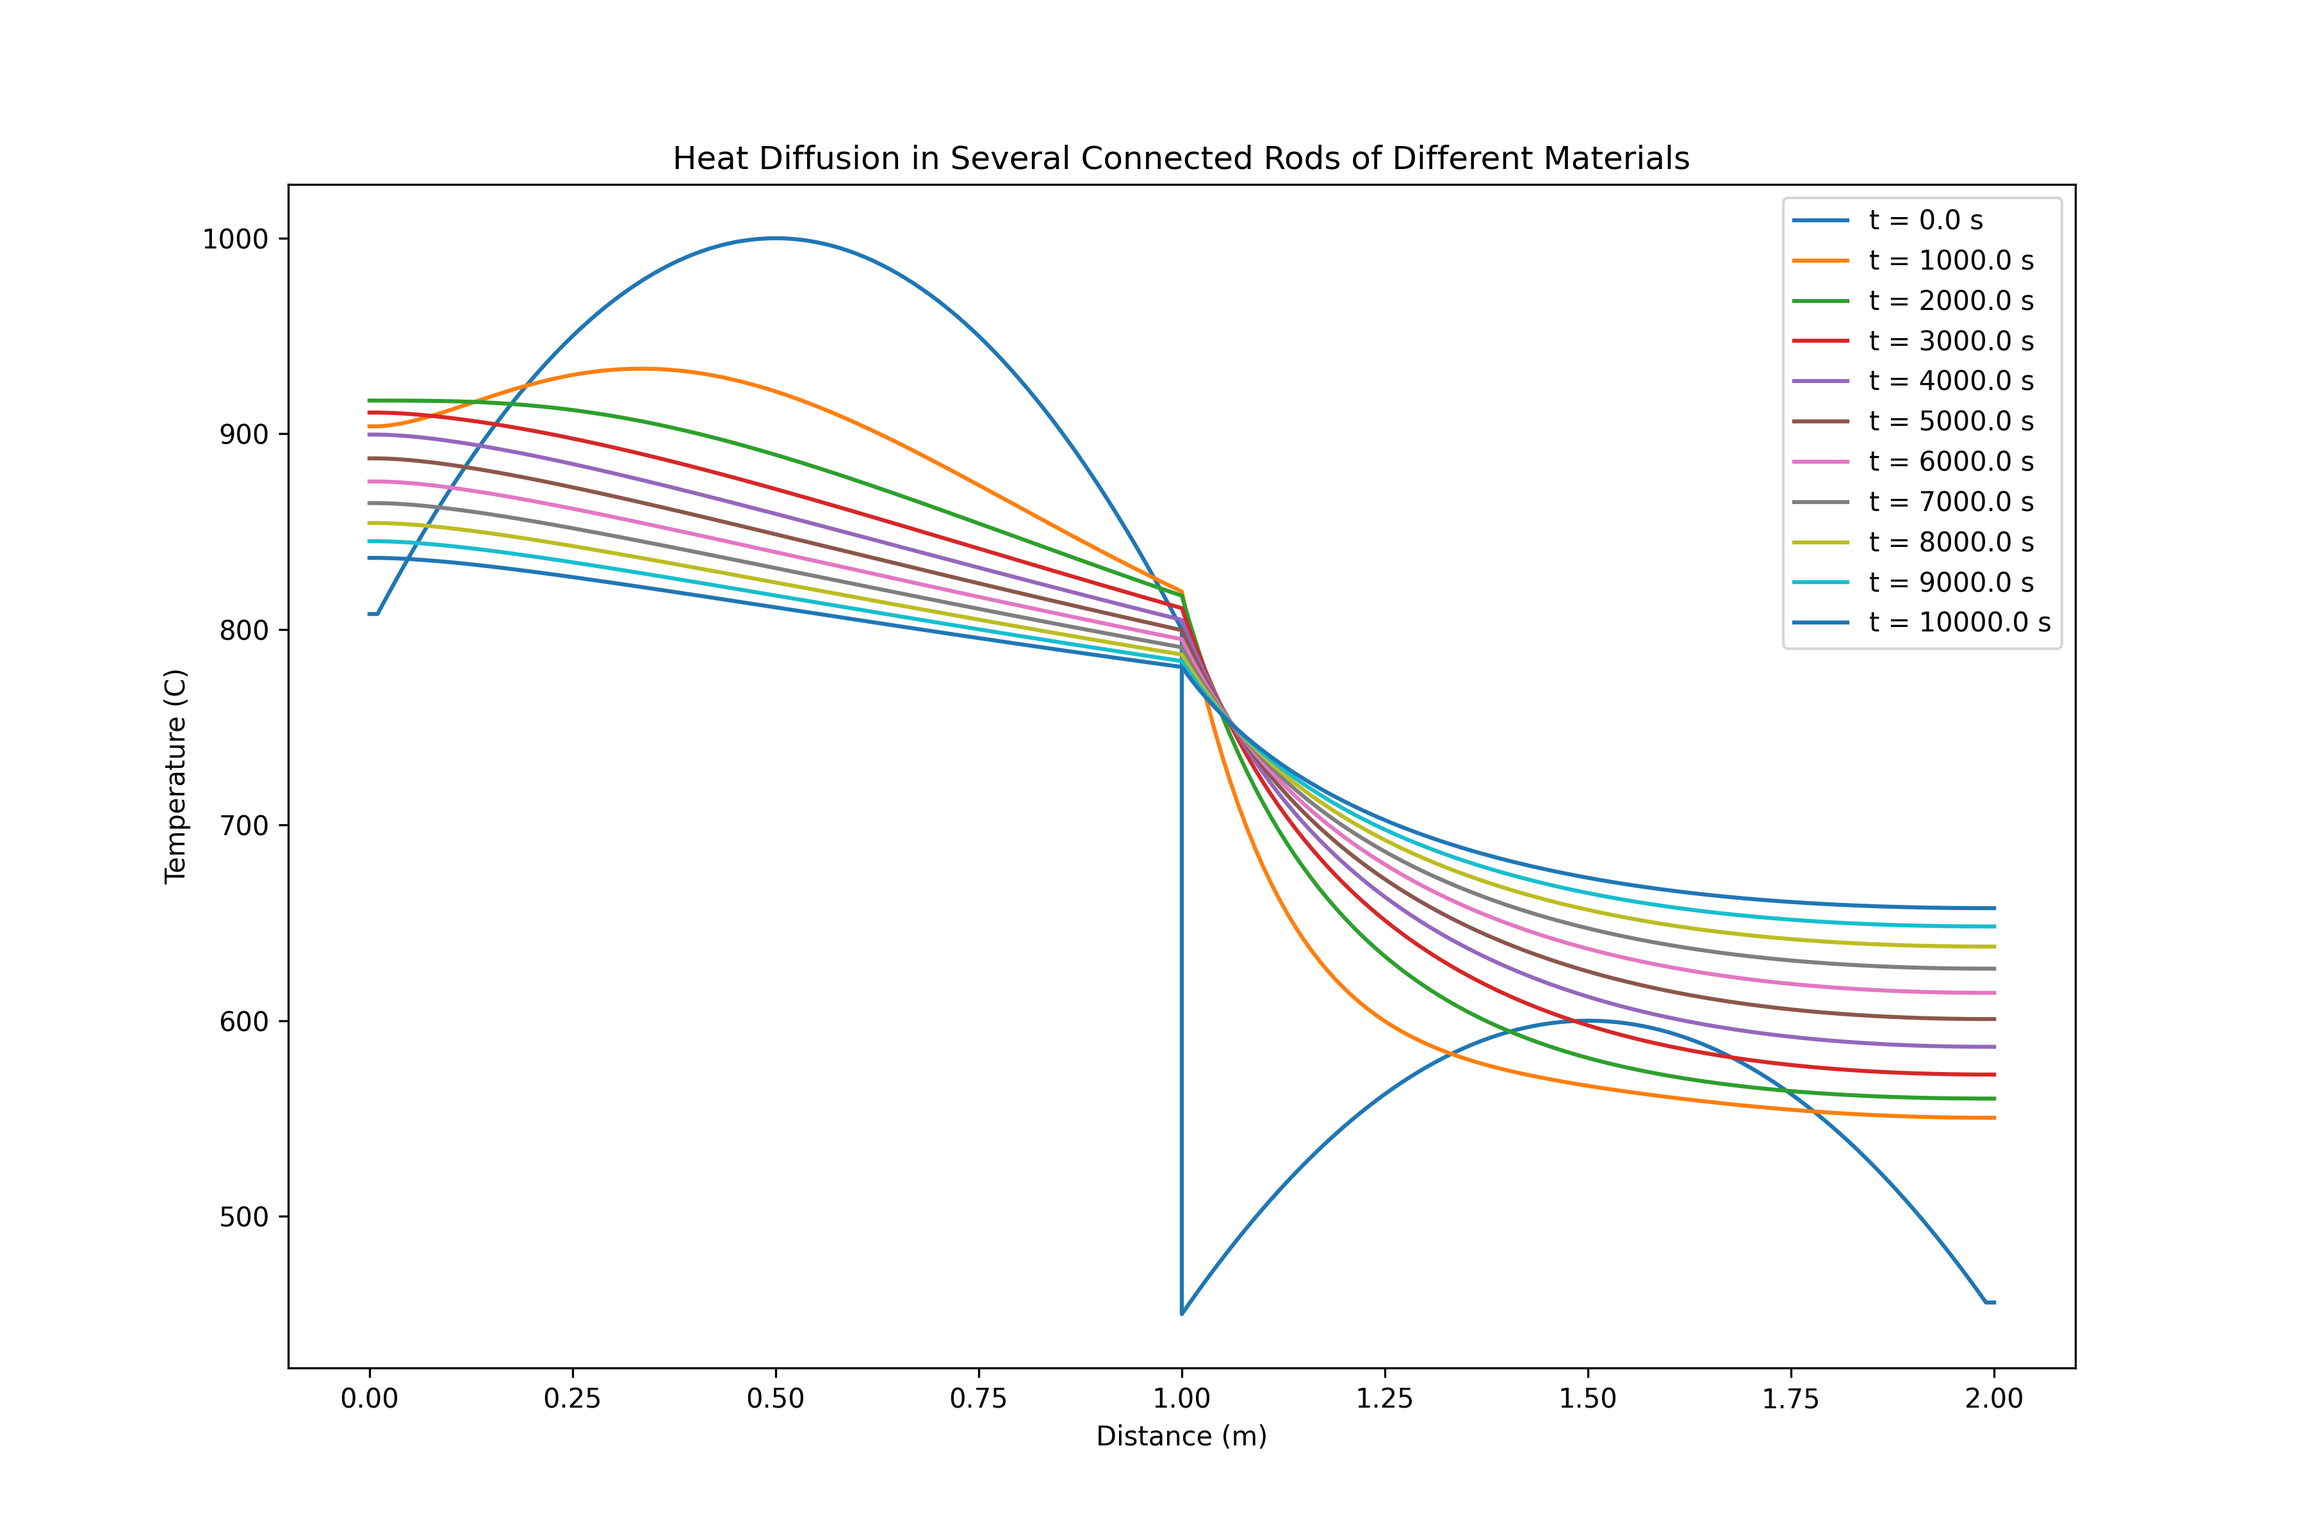
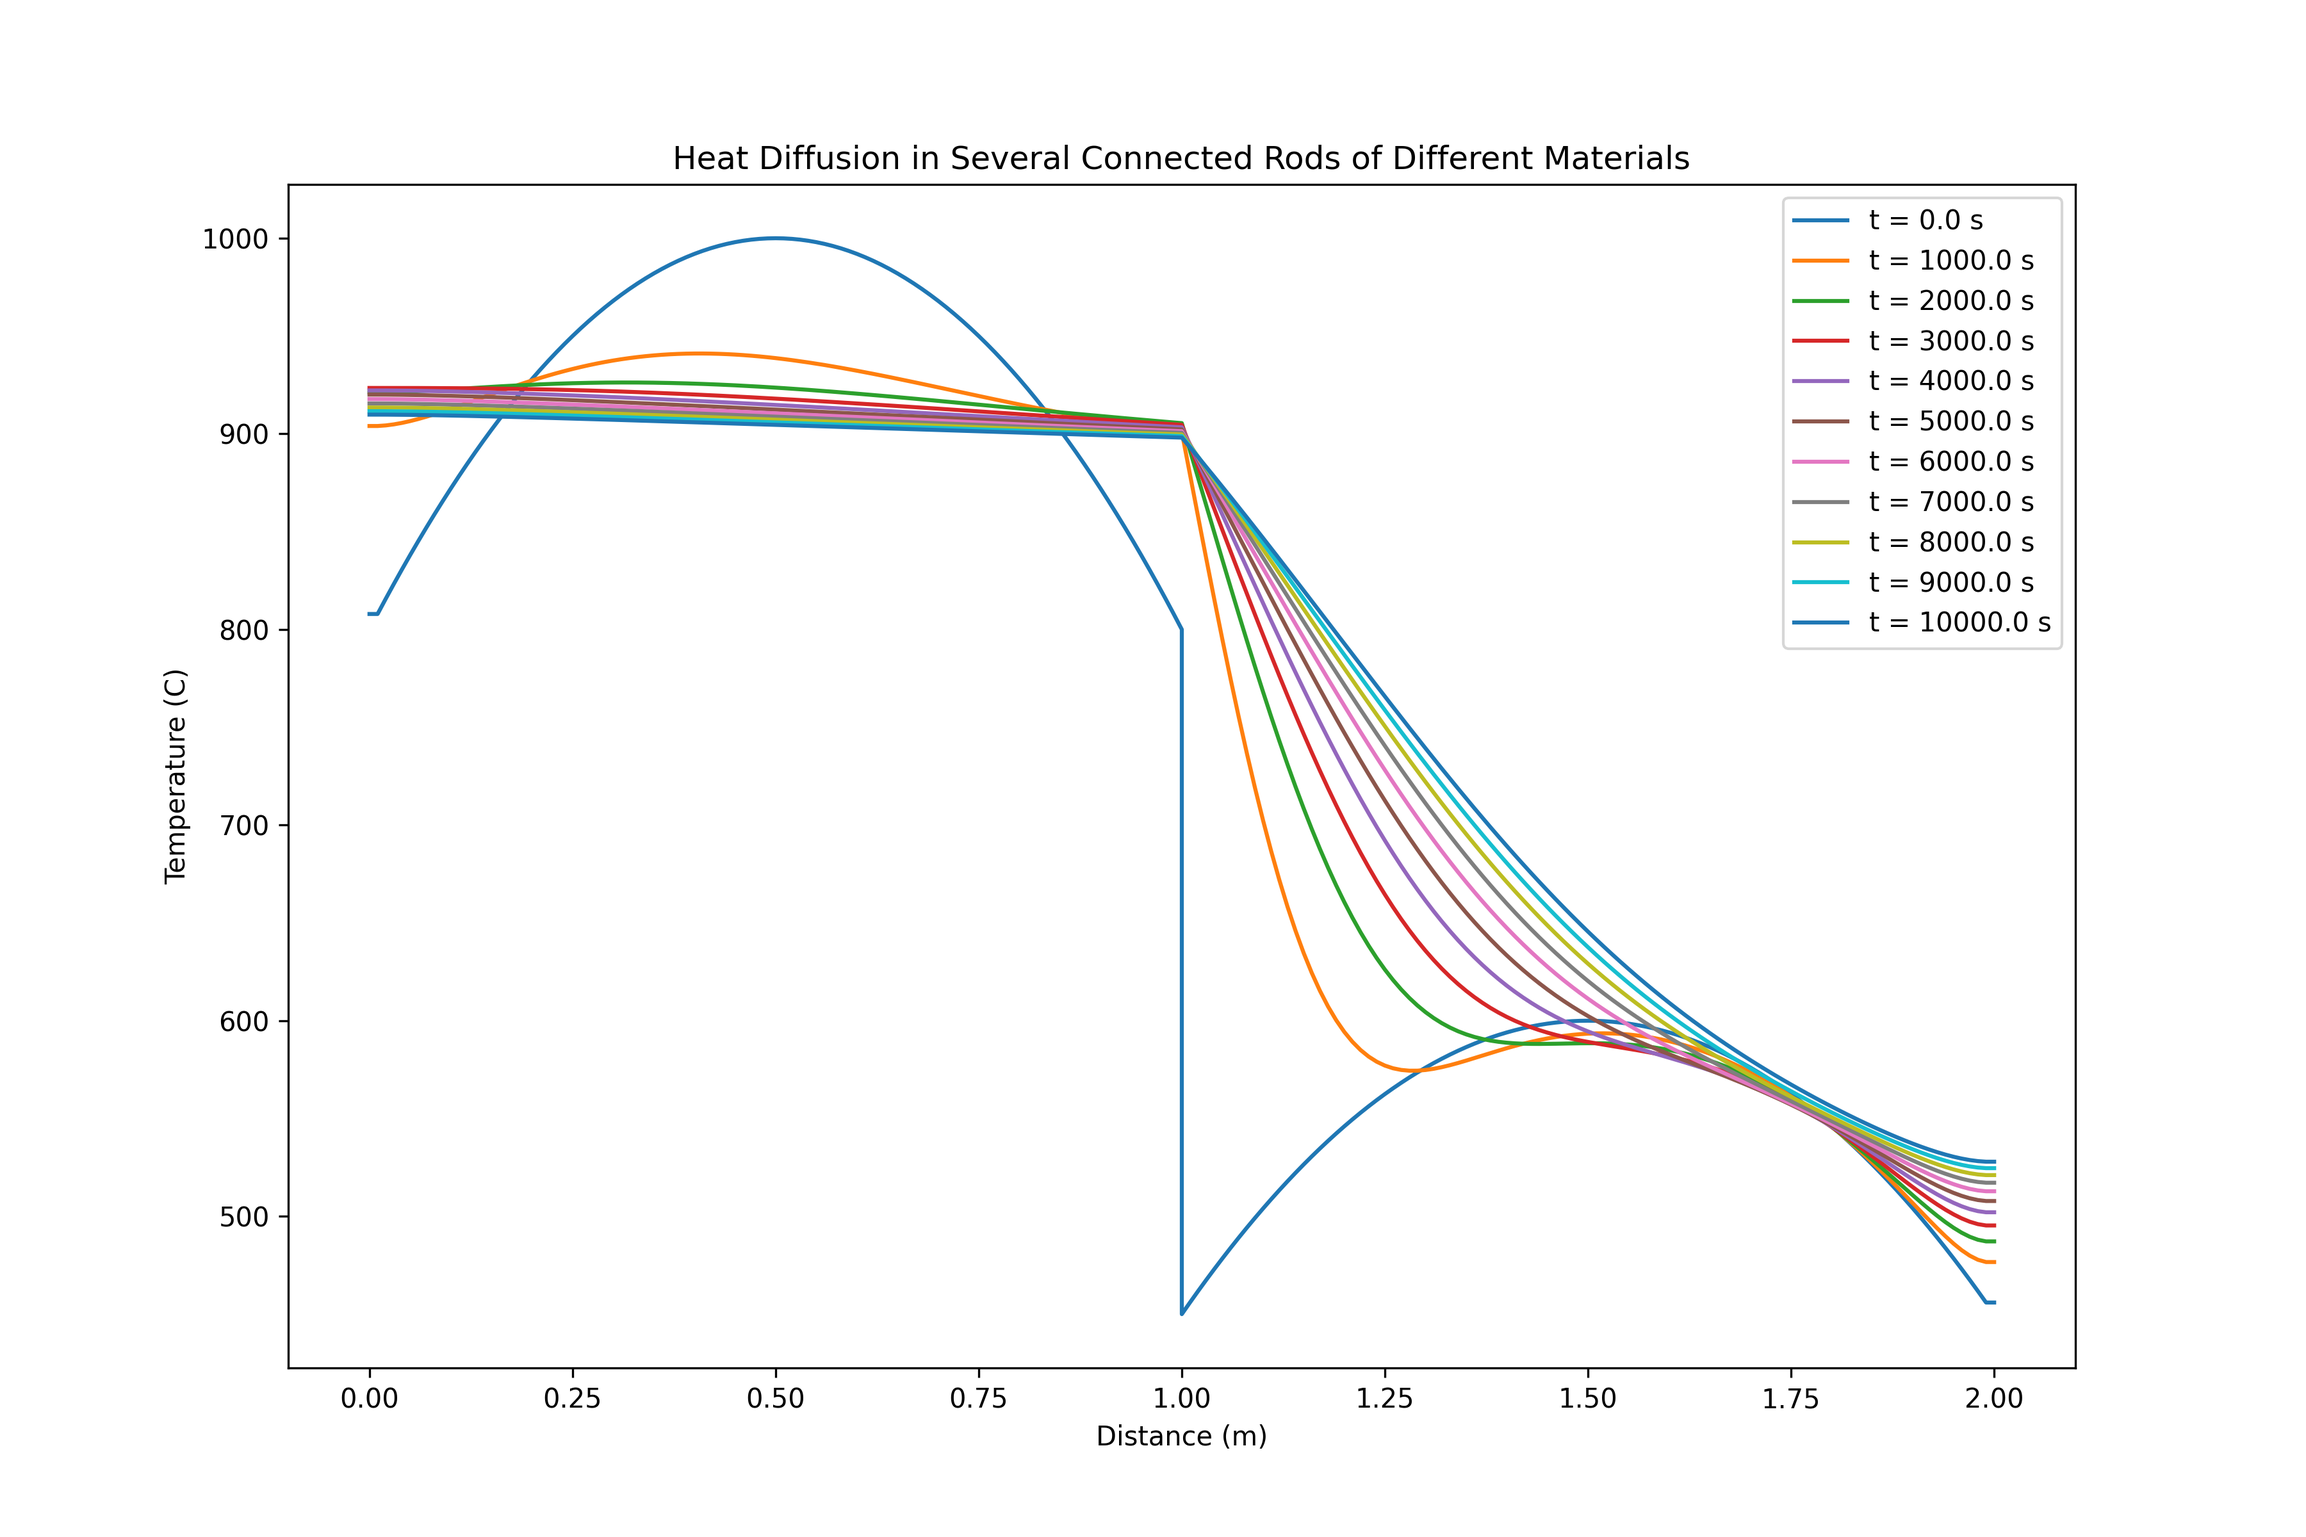
Added variable diffusivity for grain problem

Changed region(s): [[0.1556, 0.2188, 0.8711, 0.8125]]

diff --git a/Element_Partitioning_and_Diffusion/Two_grains_var_diff_mBC.py b/Element_Partitioning_and_Diffusion/Two_grains_var_diff_mBC.py
@@ -1,10 +1,11 @@
 ####################################################################################################
-# Solving heat diffusion for system with two metal rods of different material using 
-# finite difference method initially heated to two different arbitrary temperature profiles 
-# T(x, 0) = -800 * (x - 0.6)**2 + 1000  and 
-# T(x, 0) = -600 * (x - 1.5)**2 + 600
-# and then joined together while keeping their extreme ends isolated. 
-# The heat flow balances in both rods to equilibriate. 
+# Solving the diffusion for two grains in contact to get the concentration of elements
+# during element partitioning using finite difference method, initially with two arbitrary 
+# grain concentration profiles 
+# C(x, 0) = -0.02 * (x - 50)**2 + 200
+# C(x, 0) = -0.02 * (x - 150)**2 + 150
+# and modified junction conditions, are then joined together to attain equilibrium grain concentration.
+# An arbitrary diffusion coefficient profile has also been considered w.r.t. the grain length.
 ####################################################################################################
 
 import matplotlib.pyplot as plt
@@ -14,79 +15,11 @@ from numba import njit
 
 @njit
 def my_code():
-    # Constants and parameters
-    L_rod1 = 1.0  # length of the first rod
-    L_rod2 = 1.0  # length of the second rod
-    dt = 0.1  # time step
-    dx = 0.01  # spatial step
-    duration = 10000  # total simulation time
-
-    gamma = 0.9
-
-    # Discretization
-    Nx_rod1 = int(L_rod1 / dx) + 1
-    Nx_rod2 = int(L_rod2 / dx) + 1
-    Nt = int(duration / dt) + 1
-
-    alpha_rod1 = 1e-4*np.linspace(0.1, 1, Nx_rod1)  # thermal diffusivity for rod 1
-    alpha_rod2 = 1e-4*np.linspace(0.1, 1, Nx_rod2)  # thermal diffusivity for rod 2
-
-    # Define spatial coordinates for each rod
-    x_values_rod1 = np.linspace(0, L_rod1, Nx_rod1)
-    x_values_rod2 = np.linspace(L_rod1, L_rod1 + L_rod2, Nx_rod2)
-    x_values_total = np.concatenate((x_values_rod1, x_values_rod2))
-
-    # Initialize temperature arrays for each rod
-    T_rod1 = np.zeros((Nt, Nx_rod1))
-    T_rod2 = np.zeros((Nt, Nx_rod2))
-
-    # Initial conditions for each rod
-    T_rod1[0, :] = -800 * (x_values_rod1 - 0.5)**2 + 1000
-    T_rod2[0, :] = -600 * (x_values_rod2 - 1.5)**2 + 600
-
-    # Boundary conditions
-    T_rod1[:, 0] = T_rod1[:, 1]  # Isolated boundary for rod 1
-    T_rod2[:, -1] = T_rod2[:, -2]  # Isolated boundary for rod 2
-
-    # Finite difference method for each rod
-    for n in (range(0, Nt - 1)):
-        for i in range(1, Nx_rod1 - 1):
-            T_rod1[n + 1, i] = T_rod1[n, i] + alpha_rod1[i] * dt / dx**2 * (T_rod1[n, i + 1] - 2 * T_rod1[n, i] + T_rod1[n, i - 1]) + (alpha_rod1[i+1] - alpha_rod1[i]) * dt / (dx**2) * (T_rod1[n, i + 1] - T_rod1[n, i])
-
-        for i in range(1, Nx_rod2 - 1):
-            T_rod2[n + 1, i] = T_rod2[n, i] + alpha_rod2[i] * dt / dx**2 * (T_rod2[n, i + 1] - 2 * T_rod2[n, i] + T_rod2[n, i - 1]) + (alpha_rod2[i+1] - alpha_rod2[i]) * dt / (dx**2) * (T_rod2[n, i + 1] - T_rod2[n, i])
-
-        # Isolated boundary conditions for both rods
-        T_rod1[n + 1, 0] = T_rod1[n, 1]
-        T_rod2[n + 1, -1] = T_rod2[n, -2]
-
-        # Boundary condition at the junction of the two rods
-
-####################################################################################################
-# Solving heat diffusion for system with two grains of different material using 
-# finite difference method initially heated to two different arbitrary concentration profiles 
-# C(x, 0) = -800 * (x - 0.6)**2 + 1000  and 
-# C(x, 0) = -600 * (x - 1.5)**2 + 600
-# and then joined together while keeping their extreme ends isolated. 
-# The heat flow balances in both grains to equilibriate. 
-####################################################################################################
-
-import matplotlib.pyplot as plt
-import numpy as np
-from numba import njit
-
-
-@njit
-def my_code():
-    # Constants and parameters
     L_grain1 = 100.0  # length of the first grain
     L_grain2 = 100.0  # length of the second grain
-    alpha_grain1 = 1  # thermal diffusivity for grain 1
-    alpha_grain2 = 0.1  # thermal diffusivity for grain 2
     dt = 0.1  # time step
     dx = 1  # spatial step
     duration = 1000  # total simulation time
-
     gamma = 0.9
 
     # Discretization
@@ -97,70 +30,86 @@ def my_code():
     # Define spatial coordinates for each grain
     x_values_grain1 = np.linspace(0, L_grain1, Nx_grain1)
     x_values_grain2 = np.linspace(L_grain1, L_grain1 + L_grain2, Nx_grain2)
-    x_values_total = np.concatenate((x_values_grain1, x_values_grain2))
+
+    alpha_grain1 = 1*np.linspace(0.1, 1, Nx_grain1)  # thermal diffusivity for rod 1
+    alpha_grain2 = 0.1*np.linspace(1, 0.1, Nx_grain2)  # thermal diffusivity for rod 2
 
     # Initialize concentration arrays for each grain
-    C_grain1 = np.zeros((Nt, Nx_grain1))
-    C_grain2 = np.zeros((Nt, Nx_grain2))
+    Conc_grain1 = np.zeros((Nt, Nx_grain1))
+    Conc_grain2 = np.zeros((Nt, Nx_grain2))
 
     # Initial conditions for each grain
-    C_grain1[0, :] = -0.02 * (x_values_grain1 - L_grain1/2)**2 + 200
-    C_grain2[0, :] = -0.02 * (x_values_grain2 - int(L_grain2/2+L_grain1))**2 + 150
+    Conc_grain1[0, :] = -0.02 * (x_values_grain1 - L_grain1/2)**2 + 200
+    Conc_grain2[0, :] = -0.02 * (x_values_grain2 - int(L_grain2/2+L_grain1))**2 + 150
 
     # Boundary conditions
-    C_grain1[:, 0] = C_grain1[:, 1]  # Isolated boundary for grain 1
-    C_grain2[:, -1] = C_grain2[:, -2]  # Isolated boundary for grain 2
+    Conc_grain1[:, 0] = Conc_grain1[:, 1]  # Isolated boundary for grain 1
+    Conc_grain2[:, -1] = Conc_grain2[:, -2]  # Isolated boundary for grain 2
 
     # Finite difference method for each grain
     for n in range(0, Nt - 1):
         for i in range(1, Nx_grain1 - 1):
-            C_grain1[n + 1, i] = C_grain1[n, i] + alpha_grain1 * dt / dx**2 * (C_grain1[n, i + 1] - 2 * C_grain1[n, i] + C_grain1[n, i - 1])
+            Conc_grain1[n + 1, i] = Conc_grain1[n, i] + alpha_grain1[i] * dt / dx**2 * (Conc_grain1[n, i + 1] - 2 * Conc_grain1[n, i] + Conc_grain1[n, i - 1])
 
         for i in range(1, Nx_grain2 - 1):
-            C_grain2[n + 1, i] = C_grain2[n, i] + alpha_grain2 * dt / dx**2 * (C_grain2[n, i + 1] - 2 * C_grain2[n, i] + C_grain2[n, i - 1])
+            Conc_grain2[n + 1, i] = Conc_grain2[n, i] + alpha_grain2[i] * dt / dx**2 * (Conc_grain2[n, i + 1] - 2 * Conc_grain2[n, i] + Conc_grain2[n, i - 1])
 
         # Isolated boundary conditions for both grains
-        C_grain1[n + 1, 0] = C_grain1[n, 1]
-        C_grain2[n + 1, -1] = C_grain2[n, -2]
+        Conc_grain1[n + 1, 0] = Conc_grain1[n, 1]
+        Conc_grain2[n + 1, -1] = Conc_grain2[n, -2]
 
         # Boundary condition at the junction of the two grains
-        C_grain1[n + 1, -1] = (alpha_grain1[-1]*C_grain1[n+1, -2] + alpha_grain2[0]*C_grain2[n+1, 1]) / (alpha_grain1[-1] + gamma*alpha_grain2[0])
-        C_grain2[n + 1, 0] = (alpha_grain1[-1]*C_grain1[n+1, -2] + alpha_grain2[0]*C_grain2[n+1, 1]) / (alpha_grain1[-1]/gamma + alpha_grain2[0])
-        T_rod1[n + 1, -1] = (alpha_rod1[-1]*T_rod1[n+1, -2] + alpha_rod2[0]*T_rod2[n+1, 1]) / (alpha_rod1[-1] + gamma*alpha_rod2[0])
-        T_rod2[n + 1, 0] = (alpha_rod1[-1]*T_rod1[n+1, -2] + alpha_rod2[0]*T_rod2[n+1, 1]) / (alpha_rod1[-1]/gamma + alpha_rod2[0])
+        Conc_grain1[n + 1, -1] = (alpha_grain1[-1]*Conc_grain1[n+1, -2] + alpha_grain2[0]*Conc_grain2[n+1, 1]) / (alpha_grain1[-1] + gamma*alpha_grain2[0])
+        Conc_grain2[n + 1, 0] = (alpha_grain1[-1]*Conc_grain1[n+1, -2] + alpha_grain2[0]*Conc_grain2[n+1, 1]) / (alpha_grain1[-1]/gamma + alpha_grain2[0])
 
-    # Combine the concentrations of the two grains
-    C_total = np.concatenate((C_grain1, C_grain2), axis=1)
+    return Conc_grain1, Conc_grain2, x_values_grain1, x_values_grain2, duration, Nt
 
-    return C_total, x_values_total, duration, Nt
-
-def plot_3D():
+def plot_3D_twocolor(Conc_grain1, Conc_grain2, x_values_grain1, x_values_grain2, duration, Nt):
     # Create a 3D surface plot for the total concentration
-    X_total, t_values_total = np.meshgrid(x_values_total, np.linspace(0, duration, Nt))
+    X_mesh1, t_mesh = np.meshgrid(x_values_grain1, np.linspace(0, duration, Nt))
+    X_mesh2, t_mesh = np.meshgrid(x_values_grain2, np.linspace(0, duration, Nt))
     fig = plt.figure(figsize=(12, 8))
     ax = fig.add_subplot(111, projection='3d')
-    ax.plot_surface(X_total, t_values_total, C_total, cmap='viridis')
+    ax.plot_surface(X_mesh1, t_mesh, Conc_grain1, cmap='viridis')
+    ax.plot_surface(X_mesh2, t_mesh, Conc_grain2, cmap='plasma')
+    ax.set_xlabel(r'Distance ($\mu$m)')
+    ax.set_ylabel('Time (s)')
+    ax.set_zlabel('Concentration (ppm)')
+    ax.set_title('Diffusion and element partitioning in two different grains')
+    plt.savefig('Element_Partitioning_and_Diffusion/Plots/ElemPart_two_grains_var_diff_mBC_3D_twocolor.png', dpi=300)
+
+
+def plot_3D(Conc_grain1, Conc_grain2, x_values_grain1, x_values_grain2, duration, Nt):
+    x_values_total = np.concatenate((x_values_grain1, x_values_grain2))
+    Conc_total = np.concatenate((Conc_grain1, Conc_grain2), axis=1)
+    # Create a 3D surface plot for the total concentration
+    X_mesh, t_mesh = np.meshgrid(x_values_total, np.linspace(0, duration, Nt))
+    fig = plt.figure(figsize=(12, 8))
+    ax = fig.add_subplot(111, projection='3d')
+    ax.plot_surface(X_mesh, t_mesh, Conc_total, cmap='viridis')
     ax.set_xlabel(r'Distance ($\mu$m)')
     ax.set_ylabel('Time (s)')
     ax.set_zlabel('Concentration (ppm)')
     ax.set_title('Heat Diffusion in Several Connected Rods of Different Materials')
+    plt.savefig('Element_Partitioning_and_Diffusion/Plots/ElemPart_two_grains_var_diff_mBC_3D.png', dpi=300)
 
-    plt.savefig('Element_Partitioning_and_Diffusion/Plots/ElemPart_two_grains_mBC_3D.png', dpi=300)
 
-def plot_2D():
+def plot_2D(Conc_grain1, Conc_grain2, x_values_grain1, x_values_grain2, duration, Nt):
+    x_values_total = np.concatenate((x_values_grain1, x_values_grain2))
+    Conc_total = np.concatenate((Conc_grain1, Conc_grain2), axis=1)
     # Create a 2D plot for Concentration vs Length for every (Nt/10)th time step
     plt.figure(figsize=(12, 8))
     for i in range(0, Nt, int(Nt/10)):
-        plt.plot(x_values_total, C_total[i, :], label='t = ' + str(i*duration/(Nt-1)) + ' s')
+        plt.plot(x_values_total, Conc_total[i, :], label='t = ' + str(i*duration/(Nt-1)) + ' s')
     plt.xlabel(r'Distance ($\mu$m)')
-    plt.ylabel('Concentration (ppm)')
+    plt.ylabel('Concentration of mineral 1 (ppm)')
     plt.title('Heat Diffusion in Several Connected Rods of Different Materials')
     plt.legend()
-    plt.savefig('Element_Partitioning_and_Diffusion/Plots/ElemPart_two_grains_mBC.png', dpi=300)
+    plt.savefig('Element_Partitioning_and_Diffusion/Plots/ElemPart_two_grains_var_diff_mBC.png', dpi=300)
 
 
-C_total, x_values_total, duration, Nt = my_code()
+Conc_grain1, Conc_grain2, x_values_grain1, x_values_grain2, duration, Nt = my_code()
 
-plot_2D()
+plot_2D(Conc_grain1, Conc_grain2, x_values_grain1, x_values_grain2, duration, Nt)
 plt.show()
 

diff --git a/Element_Partitioning_and_Diffusion/Two_grains_mBC.py b/Element_Partitioning_and_Diffusion/Two_grains_mBC.py
@@ -1,10 +1,10 @@
 ####################################################################################################
-# Solving heat diffusion for system with two grains of different material using 
-# finite difference method initially heated to two different arbitrary concentration profiles 
-# C(x, 0) = -800 * (x - 0.6)**2 + 1000  and 
-# C(x, 0) = -600 * (x - 1.5)**2 + 600
-# and then joined together while keeping their extreme ends isolated. 
-# The heat flow balances in both grains to equilibriate. 
+# Solving the diffusion for two grains in contact to get the concentration of elements
+# during element partitioning using finite difference method, initially with two arbitrary 
+# grain concentration profiles 
+# C(x, 0) = -0.02 * (x - 50)**2 + 200
+# C(x, 0) = -0.02 * (x - 150)**2 + 150
+# and modified junction conditions, are then joined together to attain equilibrium grain concentration.
 ####################################################################################################
 
 import matplotlib.pyplot as plt

diff --git a/Heat_diffusion_in_metal_rods/Two_connected_rods_variable_diffusivity.py b/Heat_diffusion_in_metal_rods/Two_connected_rods_variable_diffusivity.py
@@ -27,7 +27,7 @@ def my_code():
     Nt = int(duration / dt) + 1
 
     alpha_rod1 = 1e-4*np.linspace(0.1, 1, Nx_rod1)  # thermal diffusivity for rod 1
-    alpha_rod2 = 1e-5*np.linspace(0.1, 1, Nx_rod2)  # thermal diffusivity for rod 2
+    alpha_rod2 = 1e-5*np.linspace(1, 0.1, Nx_rod2)  # thermal diffusivity for rod 2
 
     k_rod1 = 398.0*np.linspace(0.1, 1, Nx_rod1)
     k_rod2 = 100.0*np.linspace(0.1, 1, Nx_rod2)
@@ -96,6 +96,6 @@ def plot_2D():
     plt.legend()
     plt.savefig('Heat_diffusion_in_metal_rods/Plots/HeatDiff_two_connected_rods_mdiff.png', dpi=300)
 
-plot_3D()
+plot_2D()
 plt.show()
 
